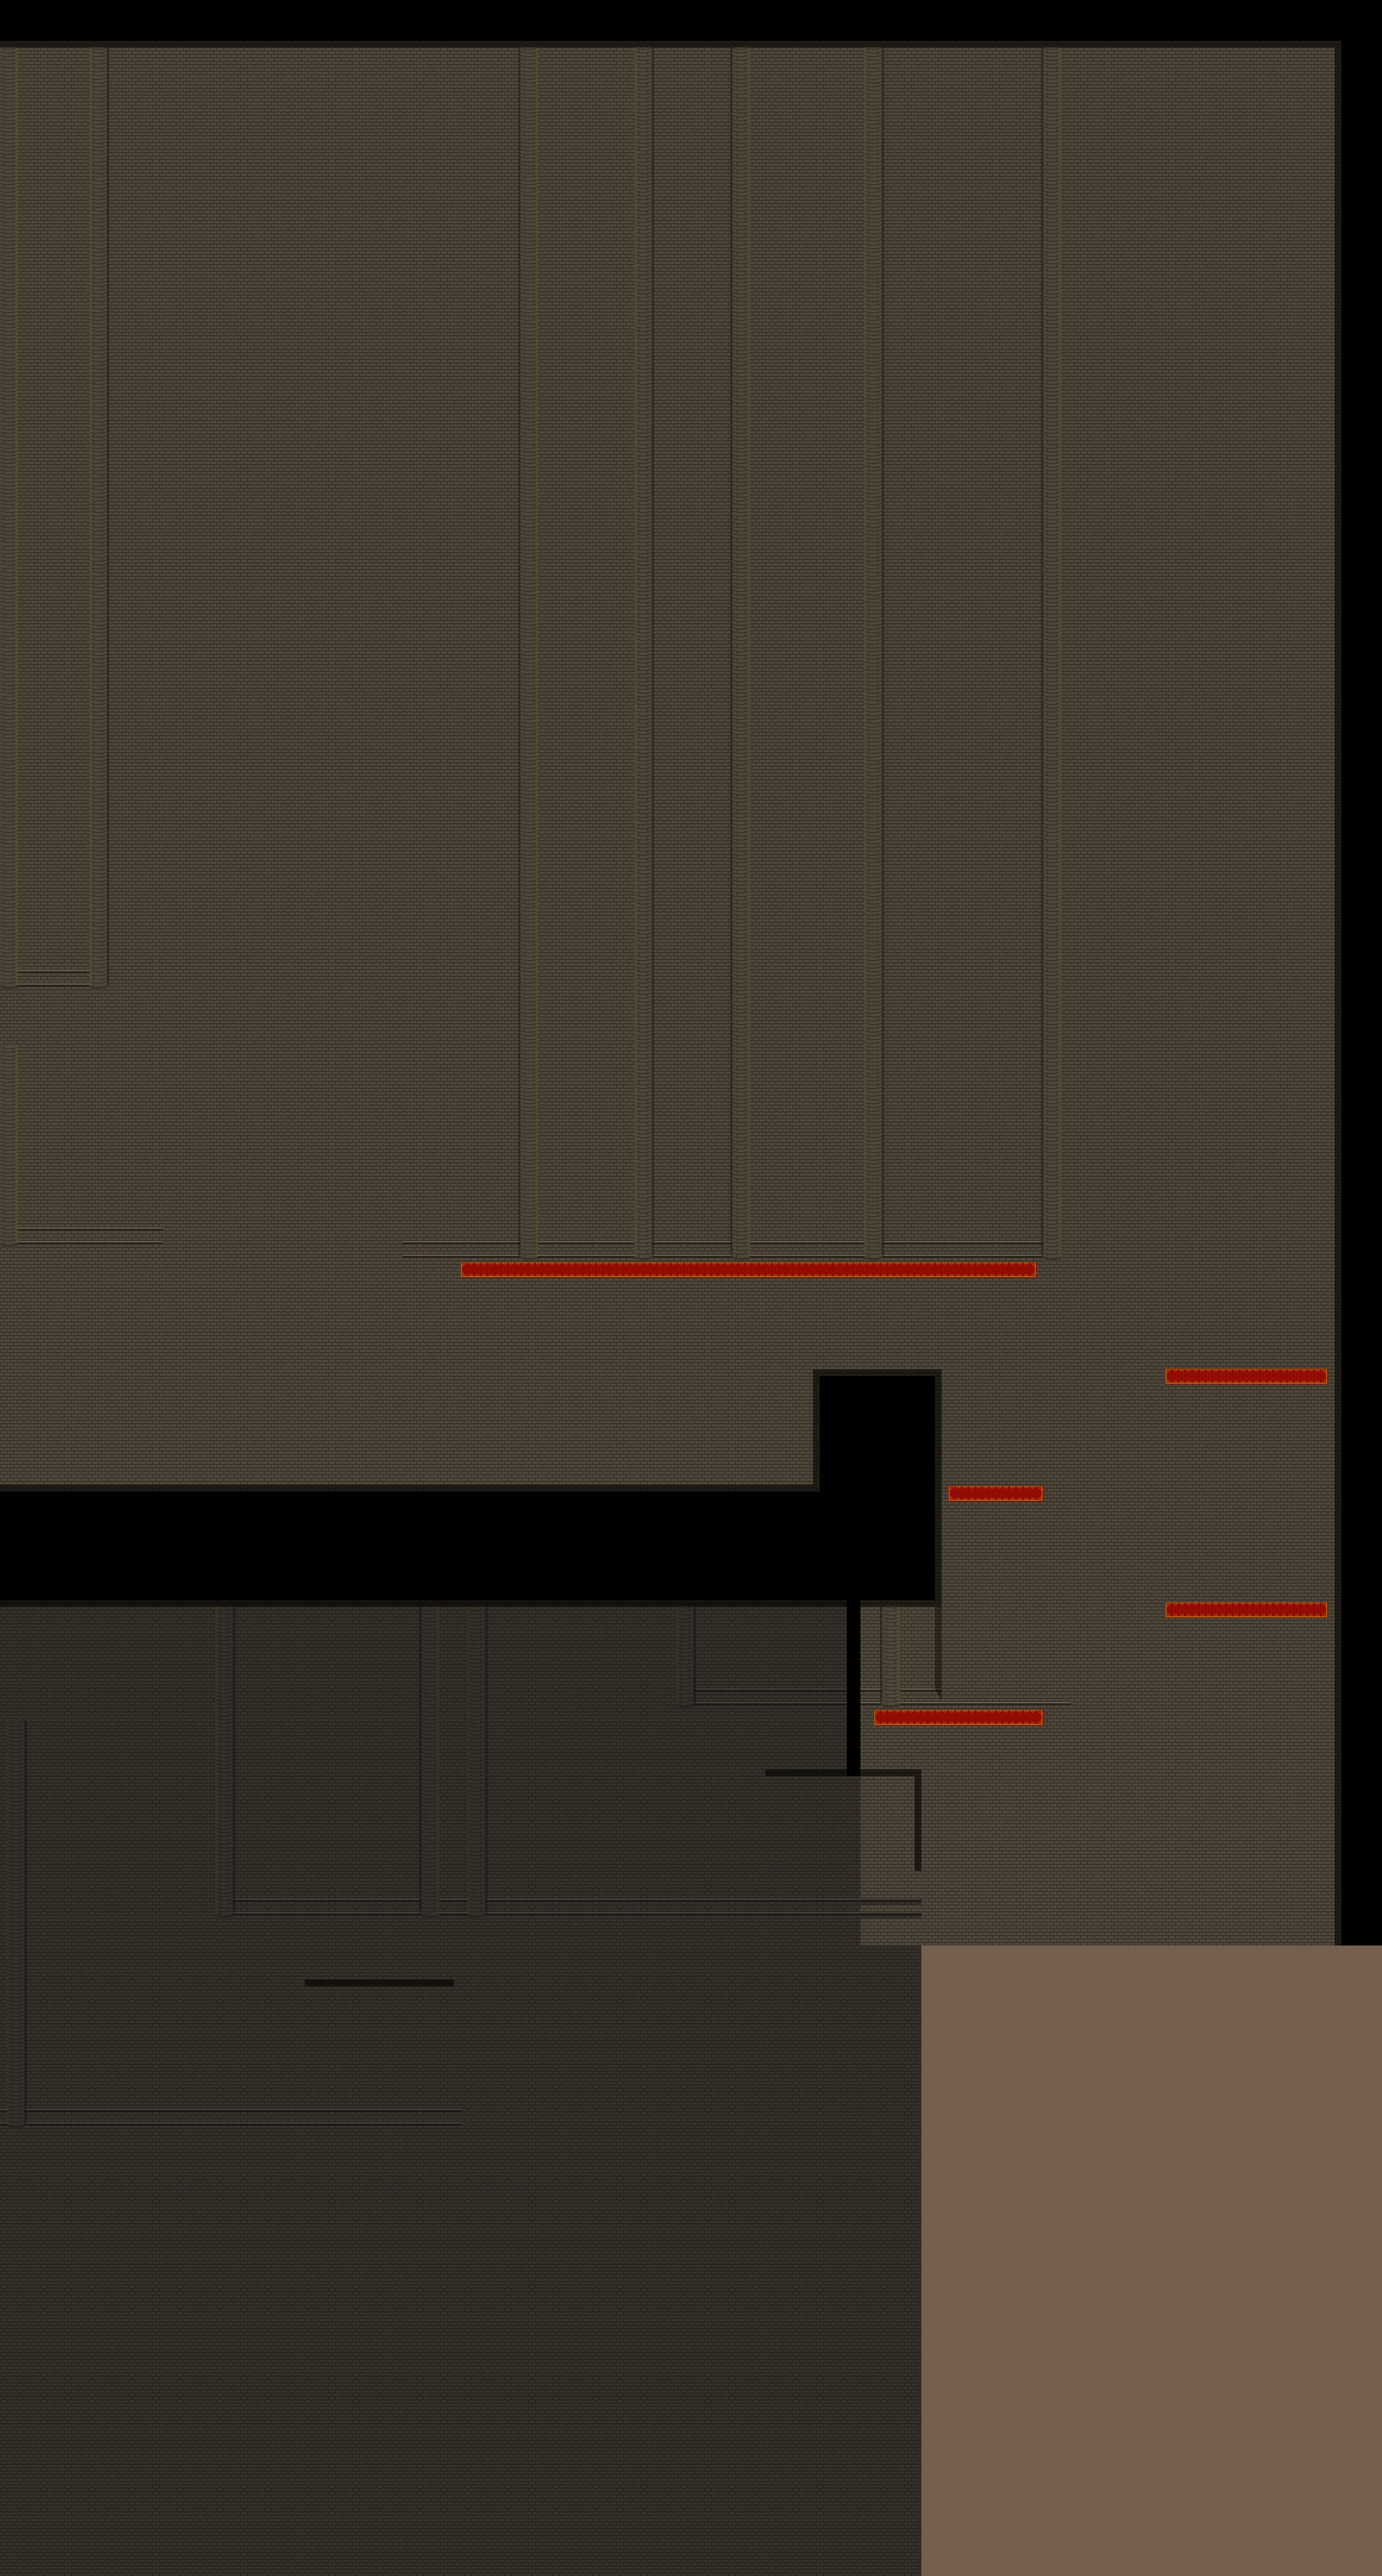
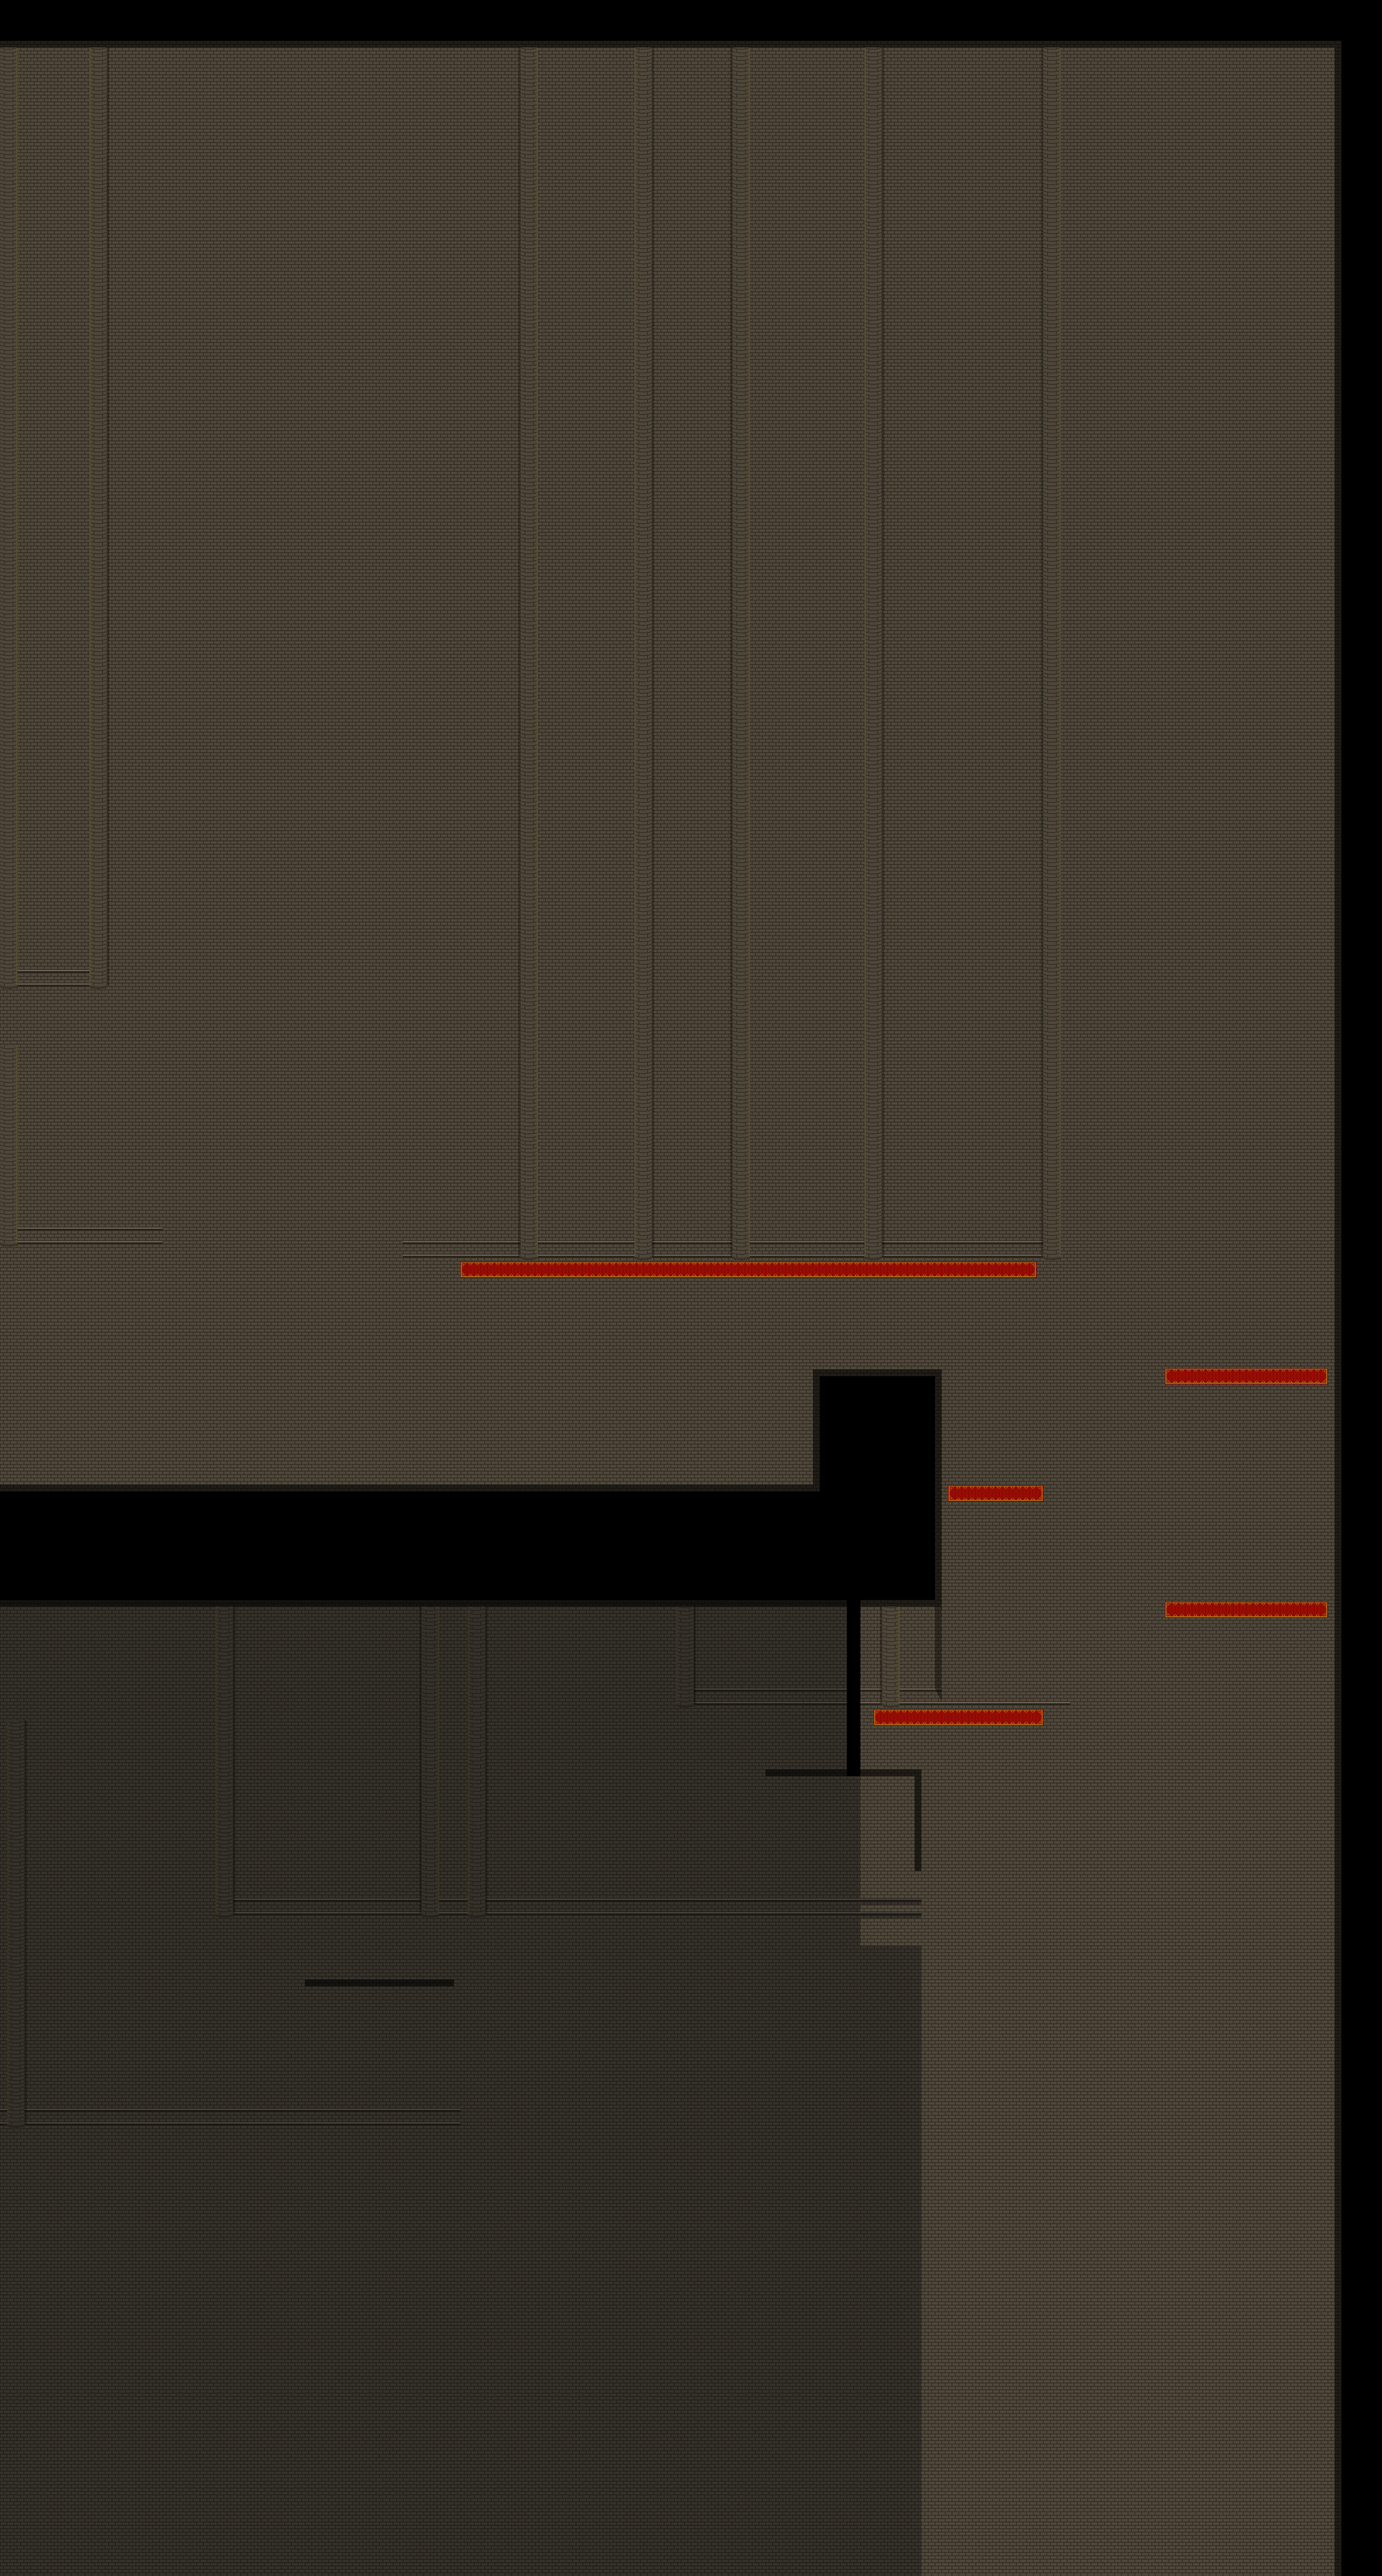
Adjusted camera resolution to 1280x768. Changed Parry animation to make it faster. Adjusted background sprites to follow the new resolution. Changed Broom behaviour.

Changed region(s): [[0.652, 0.7474, 1.0, 1.0]]

diff --git a/Assets/Scripts/Player/Magic Cat/MagicCat.cs b/Assets/Scripts/Player/Magic Cat/MagicCat.cs
@@ -1,4 +1,4 @@
-using UnityEngine;
+using UnityEngine;
 using System.Collections;
 
 public class MagicCat : Cat {
@@ -19,7 +19,9 @@ public class MagicCat : Cat {
 	public KeyCode magicPulseKey;
 	public KeyCode returnToHubKey;
 
+	public bool canLevitate;
     public int levitateDelay = 3;
+	public float levitateCooldown = 3;
     public bool levitate = false;
     public float doubleJump = 0;
 
@@ -27,9 +29,11 @@ public class MagicCat : Cat {
 
 	public bool isPulsing;
 
+	private float levitateCooldownTimeStamp = 0;
+	private Coroutine levitateCoroutine;
 	// Use this for initialization
 	void Start () {
-
+		canLevitate = true;
 		animator = GetComponent<Animator>();
 		mySpriteRenderer = GetComponent<SpriteRenderer>();
 		myRigidBody2D = GetComponent<Rigidbody2D>();
@@ -55,7 +59,7 @@ public class MagicCat : Cat {
 			ReturnToHub();
 		}
 
-		if((Input.GetButtonDown(freakoutGamepadButton) || Input.GetKeyDown(freakoutKey) ) && !isDying && !isWalking && !isAttacking && !isJumping && !isPulsing && ready){
+		if((Input.GetButtonDown(freakoutGamepadButton) || Input.GetKeyDown(freakoutKey) ) && !isDying && !isAttacking && !isJumping && !isPulsing && ready){
 			freakoutMode = true;
 			animator.SetBool("freakout",true);
 		}
@@ -77,15 +81,19 @@ public class MagicCat : Cat {
                     Idle();
                 }
 
-                if (Input.GetKey(jumpKey) && levitate || Input.GetAxis(moveVerticalGamepadAxis) >= 0.5f && levitate)
-                {
-                    MoveUp();
-                }
+				if ((Input.GetKeyDown (downKey) && levitate) || Input.GetAxis (moveVerticalGamepadAxis) <= -0.5f && levitate) {
+					CancelLevitate ();
+				}
 
-                if (Input.GetKey(downKey) && levitate || Input.GetAxis(moveVerticalGamepadAxis) <= -0.5f && levitate)
-                {
-                    MoveDown();
-                }
+//                if (Input.GetKey(jumpKey) && levitate || Input.GetAxis(moveVerticalGamepadAxis) >= 0.5f && levitate)
+//                {
+//                    MoveUp();
+//                }
+//
+//                if (Input.GetKey(downKey) && levitate || Input.GetAxis(moveVerticalGamepadAxis) <= -0.5f && levitate)
+//                {
+//                    MoveDown();
+//                }
 
 				if(Input.GetKeyDown (jumpKey) || Input.GetButtonDown(jumpGamepadButton)){
                     animator.SetBool("jumping", true);
@@ -103,9 +111,9 @@ public class MagicCat : Cat {
 					}
 				}
 
-                if (!isOnGround && doubleJump > 0 && isJumping && Input.GetKeyDown(jumpKey) || !isOnGround && doubleJump > 0 && isJumping && Input.GetButtonDown(jumpGamepadButton))
+				if ((!isOnGround && doubleJump > 0 && isJumping && Input.GetKeyDown(jumpKey) && canLevitate) || (!isOnGround && doubleJump > 0 && isJumping && Input.GetButtonDown(jumpGamepadButton) && canLevitate))
                 {
-                    levitate = true;
+					Levitate ();
                 }
 
 //                if(isFalling)
@@ -134,6 +142,10 @@ public class MagicCat : Cat {
 
 		CheckInvulnerableTimeStamp ();
 
+		if (levitateCooldownTimeStamp < Time.time) {
+			canLevitate = true;
+		}
+
 		if (invulnerable) {
 			Flash ();
 		}
@@ -143,25 +155,46 @@ public class MagicCat : Cat {
 		CheckDeath ();
 	}
 
-    private void FixedUpdate()
-    {
-        if (levitate)
-        {
-            animator.SetBool("levitate", true);
-            myRigidBody2D.bodyType = RigidbodyType2D.Kinematic;
-            myRigidBody2D.velocity = Vector2.zero;
-            StartCoroutine(LevitateOff());
-        }
-    }
+//    private void FixedUpdate()
+//    {
+//        if (levitate)
+//        {
+//            animator.SetBool("levitate", true);
+//			myRigidBody2D.gravityScale = 0;
+//            myRigidBody2D.velocity = Vector2.zero;
+//            StartCoroutine(LevitateOff());
+//        }
+//    }
 
+	void Levitate(){
+		
+		levitate = true;
+		animator.SetBool("levitate", true);
+		myRigidBody2D.gravityScale = 0;
+		myRigidBody2D.velocity = Vector2.zero;
+		levitateCoroutine = StartCoroutine(LevitateOff());
+	}
     
+	void CancelLevitate(){
+		StopCoroutine (levitateCoroutine);
+		canLevitate = false;
+		levitateCooldownTimeStamp = Time.time + levitateCooldown;
+		levitate = false;
+		animator.SetBool("levitate", false);
+		myRigidBody2D.gravityScale = 1;
+	}
 
     IEnumerator LevitateOff()
     {
+		
         yield return new WaitForSeconds(levitateDelay);
-        levitate = false;
-        animator.SetBool("levitate", false);
-        myRigidBody2D.bodyType = RigidbodyType2D.Dynamic;
+		print ("Leviate off called");
+		canLevitate = false;
+		levitateCooldownTimeStamp = Time.time + levitateCooldown;
+		levitate = false;
+		animator.SetBool("levitate", false);
+		myRigidBody2D.gravityScale = 1;
+       
     }
 
 

diff --git a/Assets/Scripts/Player/Puss In Boots/PussInBoots.cs b/Assets/Scripts/Player/Puss In Boots/PussInBoots.cs
@@ -243,7 +243,7 @@ public class PussInBoots : Cat {
 		isParrying = true;
 		enemyBeingParried = targetEnemy;
 
-		Time.timeScale = 0.5f;
+//		Time.timeScale = 0.5f;
 
 		animator.SetBool("parryStance",false);
 		animator.SetBool("parrySuccess",true);
